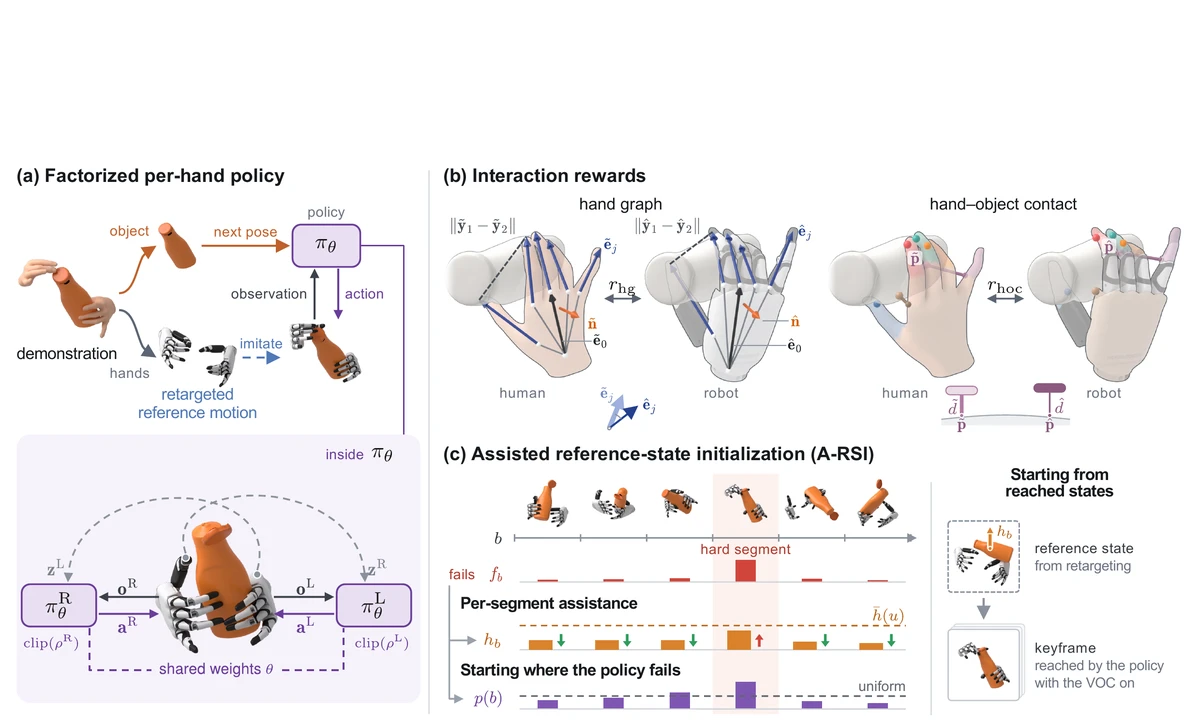
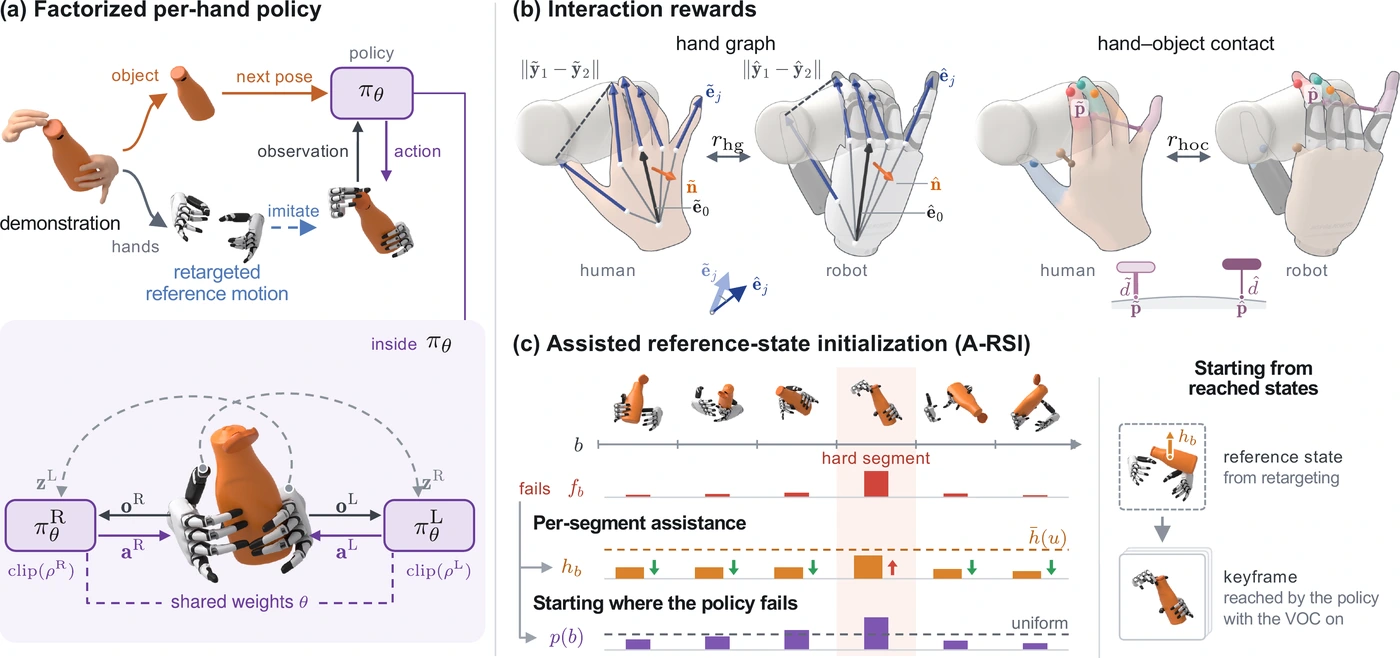
Show featured figures at natural ratio and collapse earlier news

diff --git a/index.html b/index.html
@@ -17,7 +17,7 @@
   <link rel="icon" type="image/png" href="assets/images/favicon-haokai-line.png" />
   <link rel="canonical" href="https://haokaiding.com/" />
   <link rel="sitemap" type="application/xml" href="/sitemap.xml" />
-  <link rel="stylesheet" href="styles.css?v=research-20261125" />
+  <link rel="stylesheet" href="styles.css?v=figures-20261125" />
   <link rel="stylesheet" href="availability.css?v=clock-20260920" />
   <script type="application/ld+json">
   {
@@ -124,9 +124,9 @@
           <li class="publication-item">
             <article class="paper-showcase" id="paper-dexduet-2026" aria-labelledby="paper-dexduet-2026-title">
               <figure class="paper-media">
-              <span class="paper-venue-tag">arXiv 2026 · New</span>
+              <span class="paper-venue-tag">arXiv 2026</span>
               <div class="paper-frame">
-                <img class="paper-preview" src="assets/images/pubs/fig-dexduet-pipeline.webp" alt="DexDuet pipeline: factorized per-hand policy, interaction rewards, and assisted reference-state initialization" width="1200" height="720" loading="lazy" decoding="async">
+                <img class="paper-preview" src="assets/images/pubs/fig-dexduet-pipeline.webp?v=2" alt="DexDuet pipeline: factorized per-hand policy, interaction rewards, and assisted reference-state initialization" width="1400" height="658" loading="lazy" decoding="async">
               </div>
               </figure>
               <div class="paper-copy">
@@ -147,7 +147,7 @@
               <figure class="paper-media">
               <span class="paper-venue-tag">arXiv 2026</span>
               <div class="paper-frame">
-                <img class="paper-preview" src="assets/images/pubs/fig-forkcast-teaser.webp" alt="ForkCast compares predicted futures for committing, reobserving, and replanning, then executes the best one" width="960" height="576" loading="lazy" decoding="async">
+                <img class="paper-preview" src="assets/images/pubs/fig-forkcast-teaser.webp?v=2" alt="ForkCast compares predicted futures for committing, reobserving, and replanning, then executes the best one" width="1400" height="950" loading="lazy" decoding="async">
               </div>
               </figure>
               <div class="paper-copy">
@@ -192,11 +192,16 @@
           <li class="news-item"><time class="news-date" datetime="2026-11">2026.11</time><span class="news-text">🎉 Our team won the <strong>Industry Innovation Award</strong> and <strong>2nd place in Track 2</strong> (Robotic Grounding) at the <a href="https://nvidia-isaac.github.io/video_to_data/v2d_challenge/" target="_blank" rel="noopener noreferrer">V2D Challenge</a>, held with the <a href="https://nvidia-isaac.github.io/video_to_data/v2d_corl_tutorial/" target="_blank" rel="noopener noreferrer">CoRL 2026 tutorial</a>.</span></li>
           <li class="news-item"><time class="news-date" datetime="2026-10">2026.10</time><span class="news-text">🎉 Our work on predictive recovery for vision-language-action policies is available on <a href="https://arxiv.org/abs/2610.18650" target="_blank" rel="noopener noreferrer">arXiv</a>.</span></li>
           <li class="news-item"><time class="news-date" datetime="2026-08">2026.08</time><span class="news-text">Moved to Abu Dhabi and joined <a href="https://mbzuai.ac.ae/" target="_blank" rel="noopener noreferrer">MBZUAI</a> as an M.Sc. student in Robotics.</span></li>
-          <li class="news-item"><time class="news-date" datetime="2026-03">2026.03</time><span class="news-text">🎉 Our paper on an idle-stroke underactuated gripper with double-parallelogram linkages is available on <a href="https://doi.org/10.1109/RAAI67517.2025.11423397" target="_blank" rel="noopener noreferrer">IEEE Xplore</a>. Congrats Yizhe!</span></li>
-          <li class="news-item"><time class="news-date" datetime="2026-02">2026.02</time><span class="news-text">Started a visiting appointment at the <strong><a href="https://msv.sjtu.edu.cn/" target="_blank" rel="noopener noreferrer">State Key Lab of Mechanical System and Vibration</a></strong>, Shanghai Jiao Tong University, with Prof. Wei Dong.</span></li>
-          <li class="news-item"><time class="news-date" datetime="2025-12">2025.12</time><span class="news-text">Received the <strong>National Scholarship</strong> from the Ministry of Education of China.</span></li>
-          <li class="news-item"><time class="news-date" datetime="2025-08">2025.08</time><span class="news-text">Won the <strong>Undergraduate Champion</strong> award at the ASME Student Mechanism &amp; Robot Design Competition.</span></li>
         </ul>
+        <details class="news-more">
+          <summary>Earlier news</summary>
+          <ul class="news-list">
+            <li class="news-item"><time class="news-date" datetime="2026-03">2026.03</time><span class="news-text">🎉 Our paper on an idle-stroke underactuated gripper with double-parallelogram linkages is available on <a href="https://doi.org/10.1109/RAAI67517.2025.11423397" target="_blank" rel="noopener noreferrer">IEEE Xplore</a>. Congrats Yizhe!</span></li>
+            <li class="news-item"><time class="news-date" datetime="2026-02">2026.02</time><span class="news-text">Started a visiting appointment at the <strong><a href="https://msv.sjtu.edu.cn/" target="_blank" rel="noopener noreferrer">State Key Lab of Mechanical System and Vibration</a></strong>, Shanghai Jiao Tong University, with Prof. Wei Dong.</span></li>
+            <li class="news-item"><time class="news-date" datetime="2025-12">2025.12</time><span class="news-text">Received the <strong>National Scholarship</strong> from the Ministry of Education of China.</span></li>
+            <li class="news-item"><time class="news-date" datetime="2025-08">2025.08</time><span class="news-text">Won the <strong>Undergraduate Champion</strong> award at the ASME Student Mechanism &amp; Robot Design Competition.</span></li>
+          </ul>
+        </details>
       </section>
 
       <section class="content-section" id="research">

diff --git a/styles.css b/styles.css
@@ -667,7 +667,7 @@ p {
 .selected-list > .publication-item > .paper-showcase {
   position: relative;
   display: grid;
-  grid-template-columns: minmax(240px, 34%) minmax(0, 1fr);
+  grid-template-columns: minmax(260px, 43%) minmax(0, 1fr);
   gap: clamp(22px, 3vw, 36px);
   align-items: start;
   padding: 28px 0;
@@ -675,7 +675,7 @@ p {
 }
 
 .selected-list > .publication-item:first-child > .paper-showcase {
-  padding-top: 4px;
+  padding-top: 14px;
   border-top: 0;
 }
 
@@ -687,9 +687,9 @@ p {
 }
 
 .paper-frame {
-  aspect-ratio: 5 / 3;
   overflow: hidden;
   border: 0;
+  padding: 20px 10px 10px;
   background: #fff;
   box-shadow: 3px 3px 6px rgba(0, 0, 0, 0.22);
 }
@@ -697,14 +697,13 @@ p {
 .paper-preview {
   display: block;
   width: 100%;
-  height: 100%;
-  object-fit: contain;
+  height: auto;
 }
 
 .paper-venue-tag {
   position: absolute;
   z-index: 1;
-  top: 10px;
+  top: -10px;
   left: -8px;
   padding: 5px 8px;
   border: 1px solid var(--accent);
@@ -841,6 +840,24 @@ p {
 .news-item:first-child {
   border-top: 0;
   padding-top: 0;
+}
+
+.news-more {
+  margin-top: 14px;
+}
+
+.news-more summary {
+  width: fit-content;
+  color: var(--link-color);
+  cursor: pointer;
+}
+
+.news-more summary:hover {
+  color: var(--link-hover-color);
+}
+
+.news-more[open] summary {
+  margin-bottom: 14px;
 }
 
 .news-date,
@@ -1425,7 +1442,7 @@ body.dark-mode .entry-logo-sjtu {
   }
 
   .selected-list > .publication-item:first-child > .paper-showcase {
-    padding-top: 4px;
+    padding-top: 14px;
   }
 
   .paper-venue-tag {

diff --git a/publications.html b/publications.html
@@ -17,7 +17,7 @@
   <link rel="icon" type="image/png" href="assets/images/favicon-haokai-line.png" />
   <link rel="canonical" href="https://haokaiding.com/publications.html" />
   <link rel="sitemap" type="application/xml" href="/sitemap.xml" />
-  <link rel="stylesheet" href="styles.css?v=research-20261125" />
+  <link rel="stylesheet" href="styles.css?v=figures-20261125" />
 </head>
 <body>
   <div class="container">

diff --git a/contact.html b/contact.html
@@ -17,7 +17,7 @@
   <link rel="icon" type="image/png" href="assets/images/favicon-haokai-line.png" />
   <link rel="canonical" href="https://haokaiding.com/contact.html" />
   <link rel="sitemap" type="application/xml" href="/sitemap.xml" />
-  <link rel="stylesheet" href="styles.css?v=research-20261125" />
+  <link rel="stylesheet" href="styles.css?v=figures-20261125" />
 </head>
 <body>
   <div class="container">
